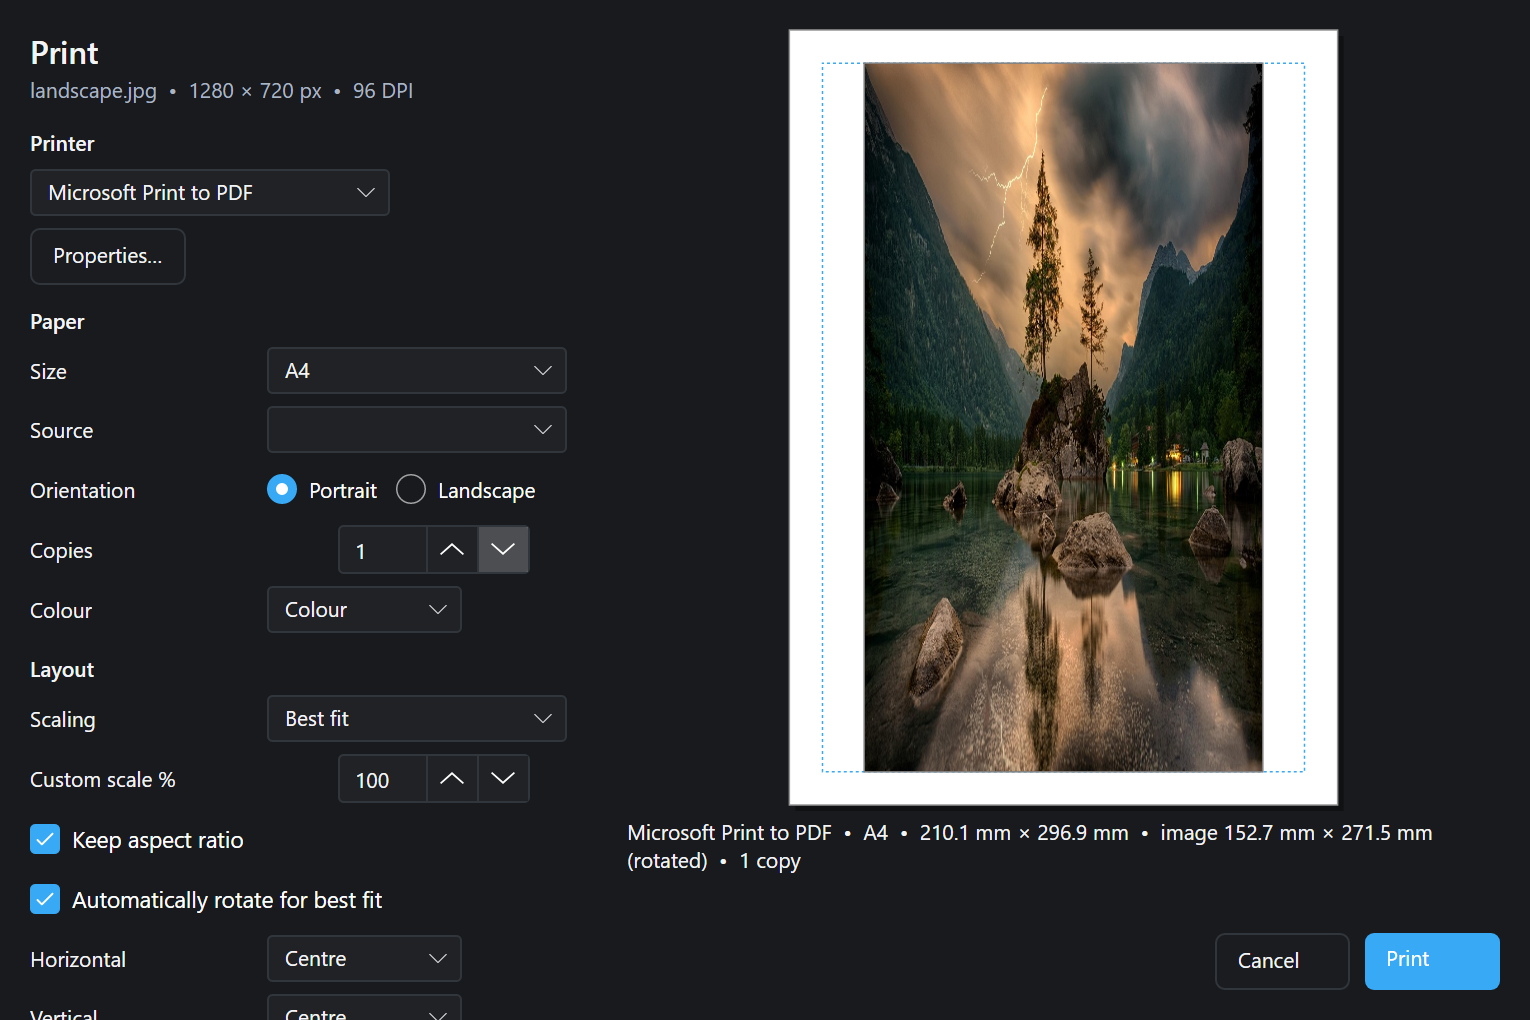
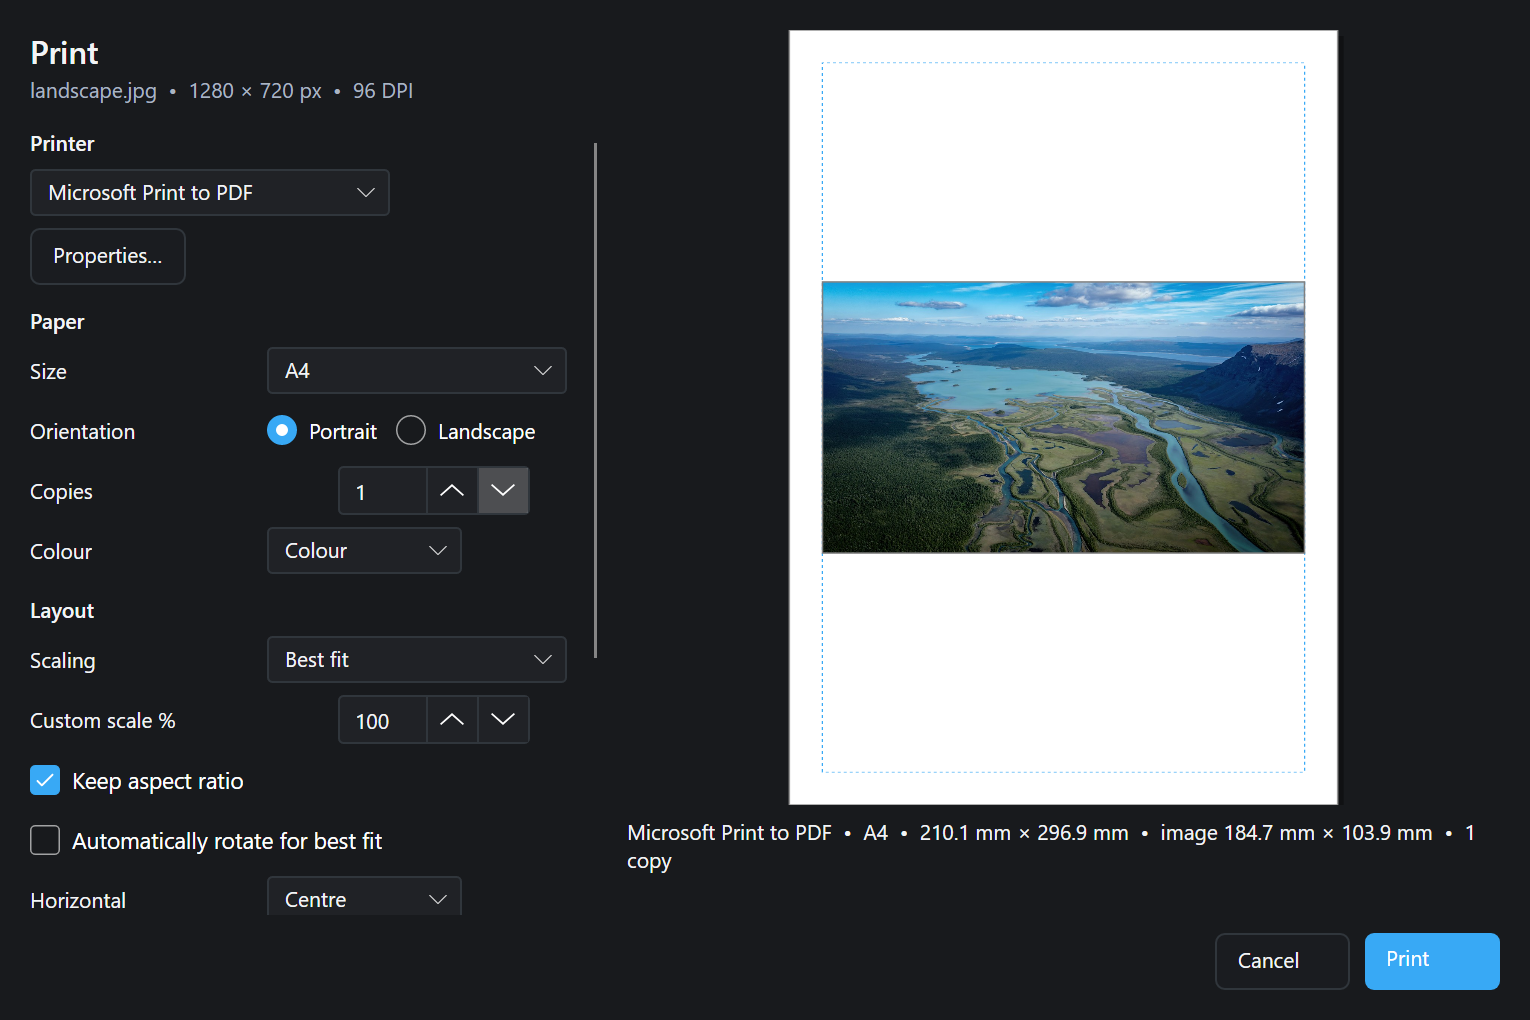
Replace README print-window screenshot with a correctly proportioned capture
The previous glide-print-dialog.png predated the auto-rotate fix and showed the stretch defect (a
1280x720 photo drawn as a tall portrait crop). Both captures are regenerated from the fixed 4.3.0
build:

- glide-print-dialog.png: Best fit, auto-rotate off -> 1280x720 renders at 184.7x103.9 mm (true 16:9)
- glide-print-dialog-autorotate.png: auto-rotate on -> correctly rotated 90 deg onto portrait paper

README now states the measured proportions and links both captures; docs/print-research.md records
that the old screenshot was superseded.

diff --git a/docs/print-research.md b/docs/print-research.md
@@ -153,7 +153,16 @@ embed the full image.
 **Screenshots:**
 - `docs/screenshots/print-research/faststone-85-browser.png` — verified FastStone 8.5 build.
 - `docs/screenshots/print-research/glide-print-dialog.png` — Glide's Print window with the live preview
-  (Microsoft Print to PDF / A4, Best fit, auto-rotate, info line + Cancel/Print).
+  (Microsoft Print to PDF / A4, Best fit, auto-rotate off). A 1280×720 landscape photo measured
+  **184.7 mm × 103.9 mm** — exactly 16:9, no distortion, no wasted page space.
+- `docs/screenshots/print-research/glide-print-dialog-autorotate.png` — the same photo with
+  **Automatically rotate for best fit** on: correctly rotated 90° onto portrait paper
+  (152.7 mm × 271.5 mm), which is the fix for the former auto-rotate stretch defect.
+
+> **Superseded capture note (2026-09-22):** the original `glide-print-dialog.png` showed the
+> auto-rotate **stretch** defect — a 16:9 landscape photo drawn as a tall, narrow portrait crop. That
+> screenshot was captured before the 4.2.6 fix (auto-rotate now performs a real rotation in both the
+> preview and the spool path). Both files above are regenerated from the fixed 4.3.0 build.
 
 **Deferred:** multi-image / contact-sheet printing (see §5).
 

diff --git a/README.md b/README.md
@@ -310,11 +310,16 @@ Glide includes a dedicated non-destructive overlay system for image comparison, 
 
 ### 13. Image Printing
 
-![Glide Print window](docs/screenshots/print-research/glide-print-dialog.png)
+![Glide Print window — a 1280×720 landscape photo in Best fit, shown at its true 16:9 proportions](docs/screenshots/print-research/glide-print-dialog.png)
 
 Glide prints the **original decoded image at full resolution**, not a capture of the viewport, through a
 Glide-native window with a live WYSIWYG preview. Open it with `Ctrl+P`, the viewer right-click menu, or
 the browser item menu.
+
+Above: a **1280 × 720** landscape photo in **Best fit** renders at **184.7 mm × 103.9 mm** — exactly
+16:9, with the aspect ratio preserved and no page space wasted. With **Automatically rotate for best
+fit** enabled the same photo is rotated 90° onto portrait paper instead
+([portrait-rotated capture](docs/screenshots/print-research/glide-print-dialog-autorotate.png)).
 
 * **Reference-faithful layout:** printer + native Properties, paper size/source, portrait/landscape,
   copies, colour/grayscale, and a live preview that updates on every change.
